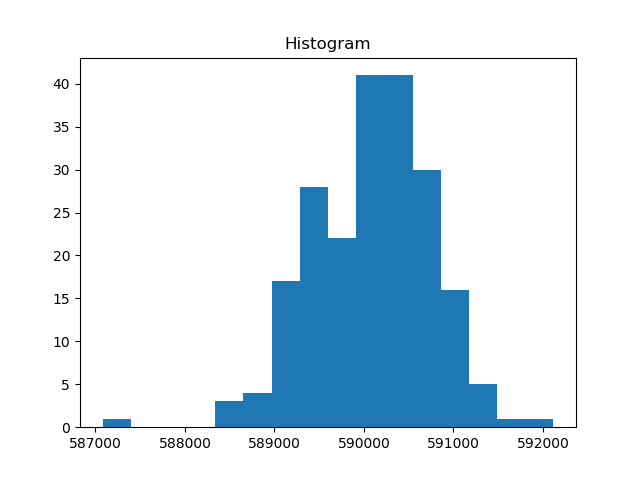
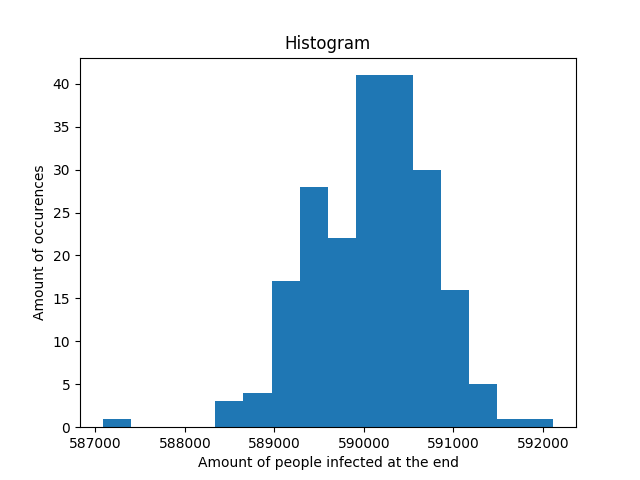
Add boxplots and text to bounds page

diff --git a/assets/src/week2/mean.py b/assets/src/week2/mean.py
@@ -1,0 +1,63 @@
+import itertools
+import random
+import numpy
+import shutil
+import pystride
+from pystride.Simulation import Simulation
+
+# Set the workspace (default = .)
+pystride.workspace = "simulations"
+
+# Configure simulation
+simulation = Simulation()
+simulation.loadRunConfig("config/run_default.xml")
+simulation.runConfig.setParameter("num_days", 30)
+simulation.runConfig.setParameter("r0", 2.0)
+simulation.runConfig.setParameter("r0", 2.0)
+simulation.runConfig.setParameter("rng_seed", 2015)
+simulation.runConfig.setParameter("seeding_rate", 0.0009)
+simulation.runConfig.setParameter("immunity_profile", "Random")
+simulation.runConfig.setParameter("immunity_rate", 0.0)
+simulation.runConfig.setParameter("vaccine_profile", "None")
+simulation.runConfig.setParameter("disease_config_file", "disease_influenza")
+simulation.runConfig.setParameter("output_prefix", "test")
+simulation.runConfig.setParameter("log_level", "None")
+
+results = []
+random.seed(0)
+outputfile = open('out.txt', 'w')
+i = 0
+while(True):
+    i += 1
+    seed = random.randint(0, 1000000000)
+    forkDefault = simulation.fork('rng_reed' + str(seed))
+    forkDefault.runConfig.setParameter("rng_seed", seed);
+    forkDefault.run()
+    result = forkDefault.runner.GetSimulator().GetPopulation().GetInfectedCount()
+    print(result)
+    results.append(result)
+    outputfile.write(str(result) + "\n")
+    outputfile.flush()
+    shutil.rmtree("simulations/test")
+    simulation.delForks()
+
+    print("SIM " + str(i))
+    print("Mean")
+    print(numpy.mean(results))
+
+    print("Dev:")
+    print(numpy.std(results))
+    print(results)
+
+# immunityRate = simulation.fork('immunityRate')
+# immunityRate.runConfig.setParameter("seeding_rate", (1 - 0.9991) / 100);
+# immunityRate.runConfig.setParameter("immunity_rate", 0.9991);
+
+# measles = simulation.fork('measles')
+# measles.runConfig.setParameter("disease_config_file", "disease_measles.xml");
+# measles.runConfig.setParameter("r0", 16);
+
+# maximum = simulation.fork('maximum')
+# maximum.runConfig.setParameter("disease_config_file", "disease_measles.xml");
+# maximum.runConfig.setParameter("r0", 60);
+

diff --git a/assets/src/week2/plot.py b/assets/src/week2/plot.py
@@ -1,0 +1,29 @@
+import numpy
+import sys
+import matplotlib.pyplot as plt
+
+a = []
+plt.hist(a, bins="auto")
+print("The mean is:", numpy.mean(a))
+print("The standard deviation is:", numpy.std(a))
+print("The variance is:", numpy.var(a))
+plt.title("Histogram")
+plt.xlabel('Amount of people infected at the end')
+plt.ylabel('Amount of occurences')
+
+plt.show()
+
+import numpy as np 
+import pylab 
+import scipy.stats as stats
+#QQ
+stats.probplot(a, dist="norm", plot=pylab)
+pylab.show()
+
+#Boxplot
+plt.figure()
+plt.title("Boxplot")
+plt.xlabel('Amount of people infected at the end')
+plt.ylabel('Amount of occurences')
+plt.boxplot(a, 0, 'rs', 0, 0.75)
+plt.show()

diff --git a/bounds.md b/bounds.md
@@ -1,24 +1,46 @@
+# Method
+We searched for good bounds for the tests. We did this by running the tests multiple times with different seeds. We then analyse the amount of infected people at the end. We will use this data to extrapolate good bounds for the tests.
+
 # Gevonden waarden
 ## seedingRate
-n = 173
-mean = 24417.4855491
-std dev = 599.440833924
-results = \[25002, 23969, 23832, 24004, 23087, 23827, 25387, 23673, 23610, 24775, 24564, 23433, 23787, 23937, 23988, 23686, 23901, 24441, 25781, 23884, 24293, 24983, 23998, 24692, 25067, 24707, 25131, 23730, 24344, 26341, 24494, 24145, 24875, 24812, 24146, 25192, 24799, 23811, 24448, 24649, 24961, 25306, 24089, 24179, 24452, 24076, 24979, 24051, 24287, 24870, 25352, 24803, 25569, 23723, 24110, 23574, 25012, 23721, 25224, 24776, 23471, 24040, 24294, 25185, 24209, 24565, 24298, 25077, 24360, 24517, 24060, 24577, 24862, 23315, 23326, 25315, 23780, 24031, 24367, 23513, 24527, 24132, 24594, 23627, 24403, 24879, 24372, 23823, 24273, 24651, 24375, 24969, 24612, 23857, 25826, 24287, 23440, 23799, 24882, 23389, 24512, 25761, 24142, 23691, 25131, 25058, 24705, 24146, 24067, 24754, 25273, 24898, 22843, 24859, 25216, 25457, 24885, 23398, 24875, 25146, 24246, 24482, 24157, 23406, 24690, 23438, 24777, 24522, 24225, 24743, 24143, 23958, 24295, 24870, 24235, 24742, 25221, 24277, 24126, 24179, 25535, 24910, 24727, 24280, 23911, 24303, 23490, 24775, 24012, 24850, 24258, 24979, 24593, 25003, 24311, 23893, 24319, 24116, 24267, 24286, 24142, 23974, 23346, 23649, 24429, 24495, 25396, 24585, 24370, 24406, 24554, 25223, 25071\]
+ - n = 173
+ - mean = 24417.4855491
+ - standard deviation = 599.440833924
+ - results = \[25002, 23969, 23832, 24004, 23087, 23827, 25387, 23673, 23610, 24775, 24564, 23433, 23787, 23937, 23988, 23686, 23901, 24441, 25781, 23884, 24293, 24983, 23998, 24692, 25067, 24707, 25131, 23730, 24344, 26341, 24494, 24145, 24875, 24812, 24146, 25192, 24799, 23811, 24448, 24649, 24961, 25306, 24089, 24179, 24452, 24076, 24979, 24051, 24287, 24870, 25352, 24803, 25569, 23723, 24110, 23574, 25012, 23721, 25224, 24776, 23471, 24040, 24294, 25185, 24209, 24565, 24298, 25077, 24360, 24517, 24060, 24577, 24862, 23315, 23326, 25315, 23780, 24031, 24367, 23513, 24527, 24132, 24594, 23627, 24403, 24879, 24372, 23823, 24273, 24651, 24375, 24969, 24612, 23857, 25826, 24287, 23440, 23799, 24882, 23389, 24512, 25761, 24142, 23691, 25131, 25058, 24705, 24146, 24067, 24754, 25273, 24898, 22843, 24859, 25216, 25457, 24885, 23398, 24875, 25146, 24246, 24482, 24157, 23406, 24690, 23438, 24777, 24522, 24225, 24743, 24143, 23958, 24295, 24870, 24235, 24742, 25221, 24277, 24126, 24179, 25535, 24910, 24727, 24280, 23911, 24303, 23490, 24775, 24012, 24850, 24258, 24979, 24593, 25003, 24311, 23893, 24319, 24116, 24267, 24286, 24142, 23974, 23346, 23649, 24429, 24495, 25396, 24585, 24370, 24406, 24554, 25223, 25071\]
+
+![Boxplot](assets/images/week2/seeding_boxplot.png)
+![Histogram](assets/images/week2/seeding_hist.png)
+![QQ-Plot](assets/images/week2/seeding_qq.png)
+
+We can conclude that the data of this test is rather normally distributed. We can see this in the QQ-plot above.
 
 
 
 ## immunityRate
-n = 100
-mean = 5
-std dev = 0
+ - n = 100
+ - mean = 5
+ - std dev = 0
+As the standard deviation is zero, the plots are not usefull here.
 
 ## measles
-n = 210
-mean = 590085.8428571429
-std dev = 660.8227044636814
-results = \[589099, 589827, 590222, 589587, 589876, 589258, 589788, 590521, 589706, 590845, 589493, 588884, 589427, 589357, 590802, 589521, 588462, 589893, 590515, 589968, 590389, 590248, 589314, 589536, 590317, 590196, 590688, 589428, 590628, 591380, 590135, 589944, 590342, 590746, 589702, 590633, 590110, 590548, 590011, 590272, 589925, 591040, 590114, 591246, 589692, 590668, 590339, 590143, 590511, 590234, 590912, 588997, 591009, 590016, 589926, 589724, 589664, 590360, 590766, 590549, 589469, 590185, 589304, 591606, 589252, 590372, 589502, 590908, 591226, 589399, 590555, 590149, 590946, 589890, 589649, 590008, 590170, 589843, 589584, 588925, 589584, 590953, 590291, 590087, 589766, 590608, 590420, 589437, 589975, 590260, 590589, 590366, 590533, 590400, 590886, 590431, 589250, 590050, 590260, 589298, 590256, 590617, 590079, 589205, 590837, 590481, 589377, 589204, 589828, 590482, 592118, 590631, 589110, 589949, 591403, 590604, 589459, 589506, 590891, 591128, 589777, 590119, 590263, 587079, 590794, 590758, 589081, 590159, 590054, 590127, 589576, 589880, 589913, 590214, 590398, 590364, 590709, 590379, 589798, 589564, 591080, 590171, 590227, 590262, 590139, 588990, 588559, 589083, 589280, 590945, 589847, 590772, 589957, 589890, 591122, 590406, 590549, 590345, 589535, 590073, 589561, 590596, 589460, 590387, 590917, 589919, 590022, 590779, 589306, 589501, 591241, 590022, 589955, 590345, 589921, 589248, 588672, 589001, 589169, 590396, 589676, 590603, 590114, 589584, 590941, 590427, 590681, 589994, 590612, 590470, 589941, 589257, 590881, 590315, 590366, 590012, 590224, 588878, 589030, 588645, 589376, 590762, 589699, 590493, 590417, 590314, 590946, 590544, 590483, 590682\]
+ - n = 210
+ - mean = 590085.8428571429
+ - std dev = 660.8227044636814
+ - results = \[589099, 589827, 590222, 589587, 589876, 589258, 589788, 590521, 589706, 590845, 589493, 588884, 589427, 589357, 590802, 589521, 588462, 589893, 590515, 589968, 590389, 590248, 589314, 589536, 590317, 590196, 590688, 589428, 590628, 591380, 590135, 589944, 590342, 590746, 589702, 590633, 590110, 590548, 590011, 590272, 589925, 591040, 590114, 591246, 589692, 590668, 590339, 590143, 590511, 590234, 590912, 588997, 591009, 590016, 589926, 589724, 589664, 590360, 590766, 590549, 589469, 590185, 589304, 591606, 589252, 590372, 589502, 590908, 591226, 589399, 590555, 590149, 590946, 589890, 589649, 590008, 590170, 589843, 589584, 588925, 589584, 590953, 590291, 590087, 589766, 590608, 590420, 589437, 589975, 590260, 590589, 590366, 590533, 590400, 590886, 590431, 589250, 590050, 590260, 589298, 590256, 590617, 590079, 589205, 590837, 590481, 589377, 589204, 589828, 590482, 592118, 590631, 589110, 589949, 591403, 590604, 589459, 589506, 590891, 591128, 589777, 590119, 590263, 587079, 590794, 590758, 589081, 590159, 590054, 590127, 589576, 589880, 589913, 590214, 590398, 590364, 590709, 590379, 589798, 589564, 591080, 590171, 590227, 590262, 590139, 588990, 588559, 589083, 589280, 590945, 589847, 590772, 589957, 589890, 591122, 590406, 590549, 590345, 589535, 590073, 589561, 590596, 589460, 590387, 590917, 589919, 590022, 590779, 589306, 589501, 591241, 590022, 589955, 590345, 589921, 589248, 588672, 589001, 589169, 590396, 589676, 590603, 590114, 589584, 590941, 590427, 590681, 589994, 590612, 590470, 589941, 589257, 590881, 590315, 590366, 590012, 590224, 588878, 589030, 588645, 589376, 590762, 589699, 590493, 590417, 590314, 590946, 590544, 590483, 590682\]
+
+![Boxplot](assets/images/week2/measles_boxplot.png)
+![Histogram](assets/images/week2/measles_hist.png)
+![QQ-Plot](assets/images/week2/measles_qq.png)
+
+We can conclude that the data of this test is rather normally distributed. We can see this in the QQ-plot above.
 
 ## maximum
-n = 100
-mean = 600 000
-std dev = 0
+ - n = 100
+ - mean = 600 000
+ - std dev = 0
+As the standard deviation is zero, the plots are not usefull here.
+
+
+## Source code
+ - [Data Gathering](assets/src/week2/mean.py)
+ - [Plotting](assets/src/week2/plot.py)
